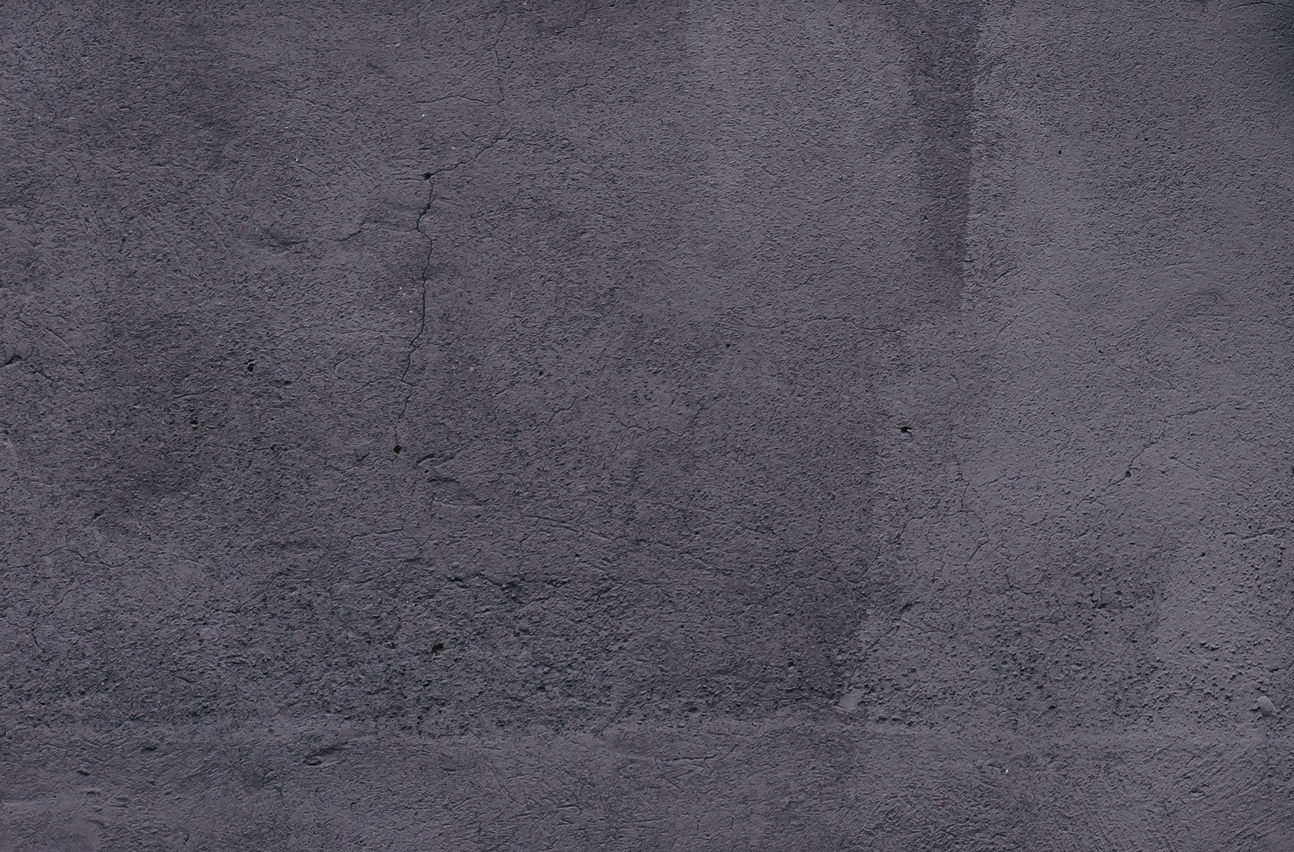
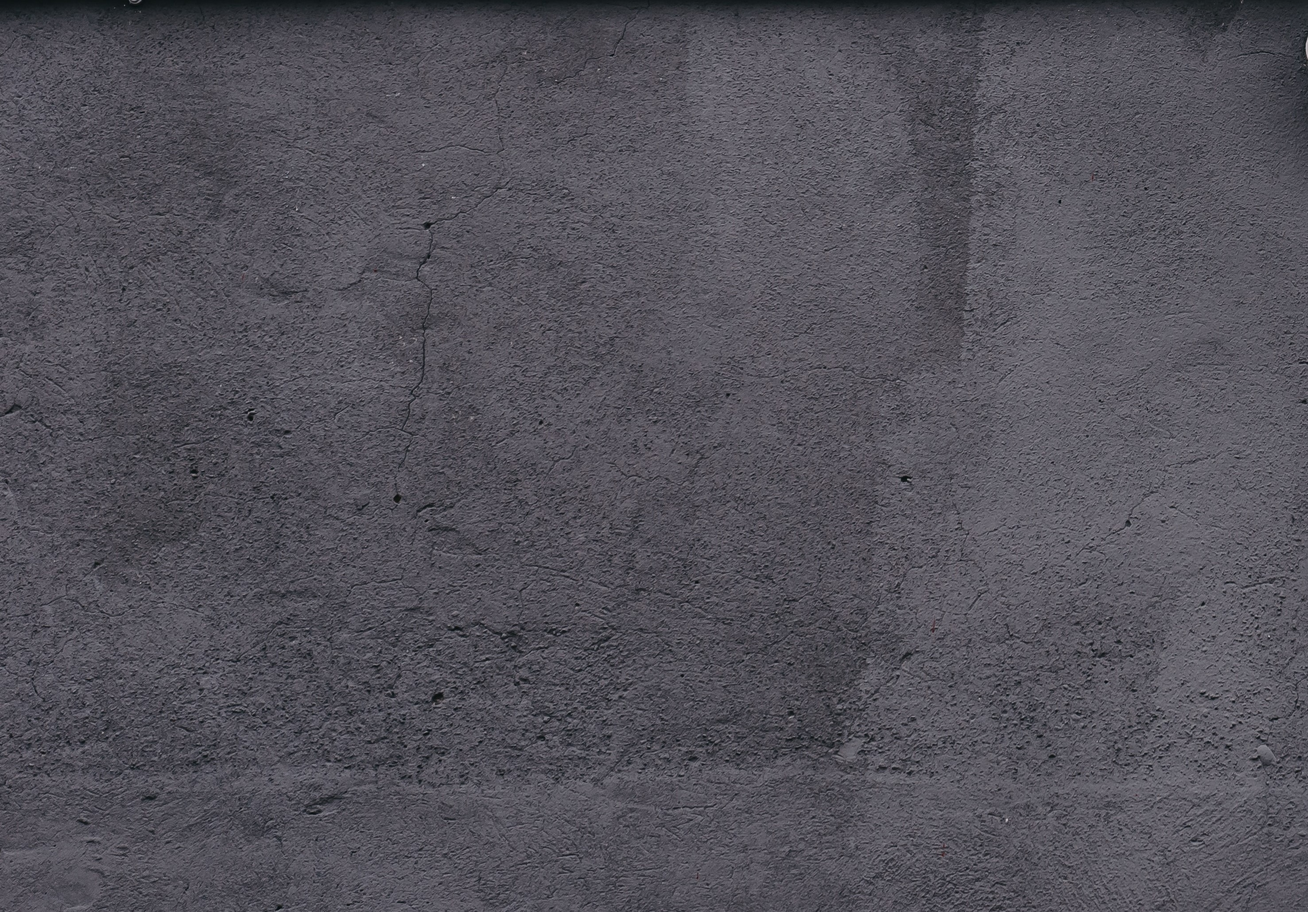
light theme

diff --git a/css/style.css b/css/style.css
@@ -695,6 +695,11 @@ textarea {
   margin-right: auto;
 }
 
+.mx-0 {
+  margin-left: 0px;
+  margin-right: 0px;
+}
+
 .mt-2 {
   margin-top: 0.5rem;
 }
@@ -759,12 +764,12 @@ textarea {
   width: 15vw;
 }
 
-.w-10\/12 {
-  width: 83.333333%;
-}
-
 .w-full {
   width: 100%;
+}
+
+.w-10\/12 {
+  width: 83.333333%;
 }
 
 .w-\[120\%\] {
@@ -804,8 +809,20 @@ textarea {
   flex-direction: column-reverse;
 }
 
+.items-start {
+  align-items: flex-start;
+}
+
+.items-end {
+  align-items: flex-end;
+}
+
 .items-center {
   align-items: center;
+}
+
+.items-baseline {
+  align-items: baseline;
 }
 
 .justify-start {
@@ -818,6 +835,10 @@ textarea {
 
 .justify-center {
   justify-content: center;
+}
+
+.justify-between {
+  justify-content: space-between;
 }
 
 .justify-around {
@@ -868,8 +889,42 @@ textarea {
   border-radius: 0.5rem;
 }
 
+.rounded {
+  border-radius: 0.25rem;
+}
+
+.rounded-r {
+  border-top-right-radius: 0.25rem;
+  border-bottom-right-radius: 0.25rem;
+}
+
+.rounded-r-3xl {
+  border-top-right-radius: 1.5rem;
+  border-bottom-right-radius: 1.5rem;
+}
+
 .rounded-br-3xl {
   border-bottom-right-radius: 1.5rem;
+}
+
+.rounded-br-2xl {
+  border-bottom-right-radius: 1rem;
+}
+
+.rounded-br-xl {
+  border-bottom-right-radius: 0.75rem;
+}
+
+.rounded-br-full {
+  border-bottom-right-radius: 9999px;
+}
+
+.rounded-br {
+  border-bottom-right-radius: 0.25rem;
+}
+
+.border {
+  border-width: 1px;
 }
 
 .border-t-2 {
@@ -910,8 +965,8 @@ textarea {
   background-color: rgb(229 231 235 / var(--tw-bg-opacity));
 }
 
-.bg-wall {
-  background-image: url('../imgs/wall.jpg');
+.bg-bwall {
+  background-image: url('../imgs/bg-wall.jpg');
 }
 
 .bg-cover {
@@ -957,14 +1012,19 @@ textarea {
   padding-bottom: 0.75rem;
 }
 
-.py-5 {
-  padding-top: 1.25rem;
-  padding-bottom: 1.25rem;
+.py-6 {
+  padding-top: 1.5rem;
+  padding-bottom: 1.5rem;
 }
 
 .px-10 {
   padding-left: 2.5rem;
   padding-right: 2.5rem;
+}
+
+.py-5 {
+  padding-top: 1.25rem;
+  padding-bottom: 1.25rem;
 }
 
 .pt-8 {
@@ -1034,12 +1094,12 @@ textarea {
   font-weight: 700;
 }
 
-.font-light {
-  font-weight: 300;
-}
-
 .font-normal {
   font-weight: 400;
+}
+
+.font-light {
+  font-weight: 300;
 }
 
 .uppercase {
@@ -1053,6 +1113,11 @@ textarea {
 .text-gray-500 {
   --tw-text-opacity: 1;
   color: rgb(107 114 128 / var(--tw-text-opacity));
+}
+
+.text-darkViolet {
+  --tw-text-opacity: 1;
+  color: hsl(257 27% 26% / var(--tw-text-opacity));
 }
 
 .text-grayishViolet {
@@ -1300,6 +1365,12 @@ SO IT CAN BE STYLED */
   border-color: transparent white;
 }
 
+a.lol{
+  /* display: block; */
+  /* min-width: 100%; */
+  background-color: #7b1010;
+}
+
 /* FULLPAGE NAVIGATION DOTS- COLOR OF NAVIGATION DOTS: */
 
 #fp-nav ul li a span,
@@ -1368,6 +1439,11 @@ SO IT CAN BE STYLED */
   background-color: rgb(255 255 255 / var(--tw-bg-opacity));
 }
 
+.dark .dark\:bg-cyan {
+  --tw-bg-opacity: 1;
+  background-color: hsl(180 66% 49% / var(--tw-bg-opacity));
+}
+
 .dark .dark\:bg-veryDarkViolet {
   --tw-bg-opacity: 1;
   background-color: hsl(260 8% 14% / var(--tw-bg-opacity));
@@ -1376,6 +1452,11 @@ SO IT CAN BE STYLED */
 .dark .dark\:text-white {
   --tw-text-opacity: 1;
   color: rgb(255 255 255 / var(--tw-text-opacity));
+}
+
+.dark .dark\:text-grayishViolet {
+  --tw-text-opacity: 1;
+  color: hsl(257 7% 63% / var(--tw-text-opacity));
 }
 
 .dark .dark\:opacity-80 {
@@ -1432,6 +1513,10 @@ SO IT CAN BE STYLED */
     width: 50%;
   }
 
+  .lg\:w-4\/6 {
+    width: 66.666667%;
+  }
+
   .lg\:max-w-md {
     max-width: 28rem;
   }
@@ -1454,11 +1539,6 @@ SO IT CAN BE STYLED */
 
   .lg\:border-t-0 {
     border-top-width: 0px;
-  }
-
-  .lg\:py-4 {
-    padding-top: 1rem;
-    padding-bottom: 1rem;
   }
 
   .lg\:text-left {

diff --git a/index.html b/index.html
@@ -56,7 +56,7 @@
 
   <body
     id="body"
-    class="dark:bg-customBlack bg-white dark:text-white font-sans"
+    class="dark:bg-customBlack bg-gray-200 dark:text-white font-sans"
   >
     <!-- Nav Container -->
     <nav>
@@ -78,7 +78,7 @@
         </li>
         <li class="group" data-menuanchor="fourthPage">
           <a
-            class="inline-block bg-cyan dark:bg-white px-12 py-4 w-20vw text-center text-gray-500 font-bold no-underline text-lg rounded-br-3xl group-hover:text-veryDarkViolet"
+            class="inline-block bg-cyan dark:bg-white px-12 py-4 w-20vw text-center rounded-br-3xl text-gray-500 font-bold no-underline text-lg group-hover:text-veryDarkViolet"
             href="#fourthPage"
             >Contact</a
           >
@@ -180,7 +180,7 @@
     <!-- Container All Fullpage.js Sections -->
     <div id="fullpage">
       <!-- Hero Section -->
-      <div id="hero" class="section">
+      <div id="hero" class="section bg-gray-200 dark:bg-customBlack">
         <!-- Hero Container -->
         <div
           class="container flex flex-col-reverse mx-auto p-12 lg:flex-row items-center"
@@ -190,7 +190,7 @@
             class="flex flex-col space-y-10 mb-44 lg:mt-16 lg:w-1/2 xl:mb-52"
           >
             <h1
-              class="text-5xl font-bold text-center lg:text-6xl lg:max-w-md lg:text-left"
+              class="text-5xl dark:text-white font-bold text-center lg:text-6xl lg:max-w-md lg:text-left"
             >
               Welcome.
             </h1>
@@ -202,10 +202,10 @@
               portfolio also contains many 'classic' React.js apps styled with
               CSS Modules.
             </p>
-            <div class="mx-auto lg:mx-0">
+            <div class="mx-0 lg:mx-0">
               <a
                 href="#"
-                class="py-5 px-10 text-2xl font-bold text-white bg-cyan rounded-full lg:py-4 hover:opacity-70"
+                class="py-6 px-10 lg: inline-block w-full lg:w-4/6 text-center bg-darkViolet text-2xl font-bold text-white dark:bg-cyan rounded-full hover:opacity-70"
                 >Get Started</a
               >
             </div>
@@ -216,12 +216,14 @@
             <img src="imgs/illustration-working.svg" alt="" />
           </div>
         </div>
+        
       </div>
 
       <!-- Slides Section -->
-      <div class="section bg-wall bg-cover bg-bottom">
+      <div class="section bg-bwall bg-cover bg-bottom">
         <!-- SLIDE NR 1 -->
-        <div class="slide justify-center bg-gray-200 items-center p-8">
+        <div class="slide justify-center items-center p-8">
+          
           <!-- there is another div in here added by fullpage and has probably set
           responsive width set on it and set fixed height so if items 
           inside are higher than that height - which is probably one page
@@ -881,7 +883,7 @@
       <div class="section">
         <!-- ther is a div in here added by fullpage.js with display-block proprty -->
         <div
-          class="container m-auto p-12 pt-20 flex flex-col gap-8 lg:flex-row justify-start items-center border-t-2 border-b-2"
+          class="container m-auto p-12 pt-20 flex flex-col gap-8 lg:flex-row justify-start items-center border-grayishViolet border-t-2 border-b-2"
         >
           <div class="flex flex-col p-4 basis-2/5 justify-center items-center">
             <h2 class="text-4xl font-bold mb-4 text-cyan">You can find me on:</h2>
@@ -910,7 +912,7 @@
           </div>
 
           <!-- Container for Form -->
-          <div class="text-center lg:text-left border-t-2 lg:border-t-0">
+          <div class="text-center lg:text-left border-t-2 border-grayishViolet lg:border-t-0">
             <form class="form">
            
 

diff --git a/tailwind.config.js b/tailwind.config.js
@@ -21,7 +21,8 @@ module.exports = {
       backgroundImage: {
         road: "url('../imgs/road3.jpg')",
         view: "url('../imgs/view.jpg')",
-        wall: "url('../imgs/wall.jpg')"
+        wall: "url('../imgs/wall.jpg')",
+        bwall: "url('../imgs/bg-wall.jpg')"
       },
       spacing: {
         180: '32rem',

diff --git a/input.css b/input.css
@@ -301,6 +301,12 @@ SO IT CAN BE STYLED */
   border-color: transparent white;
 }
 
+a.lol{
+  /* display: block; */
+  /* min-width: 100%; */
+  background-color: #7b1010;
+}
+
 /* FULLPAGE NAVIGATION DOTS- COLOR OF NAVIGATION DOTS: */
 #fp-nav ul li a span,
 .fp-slidesNav ul li a span {
